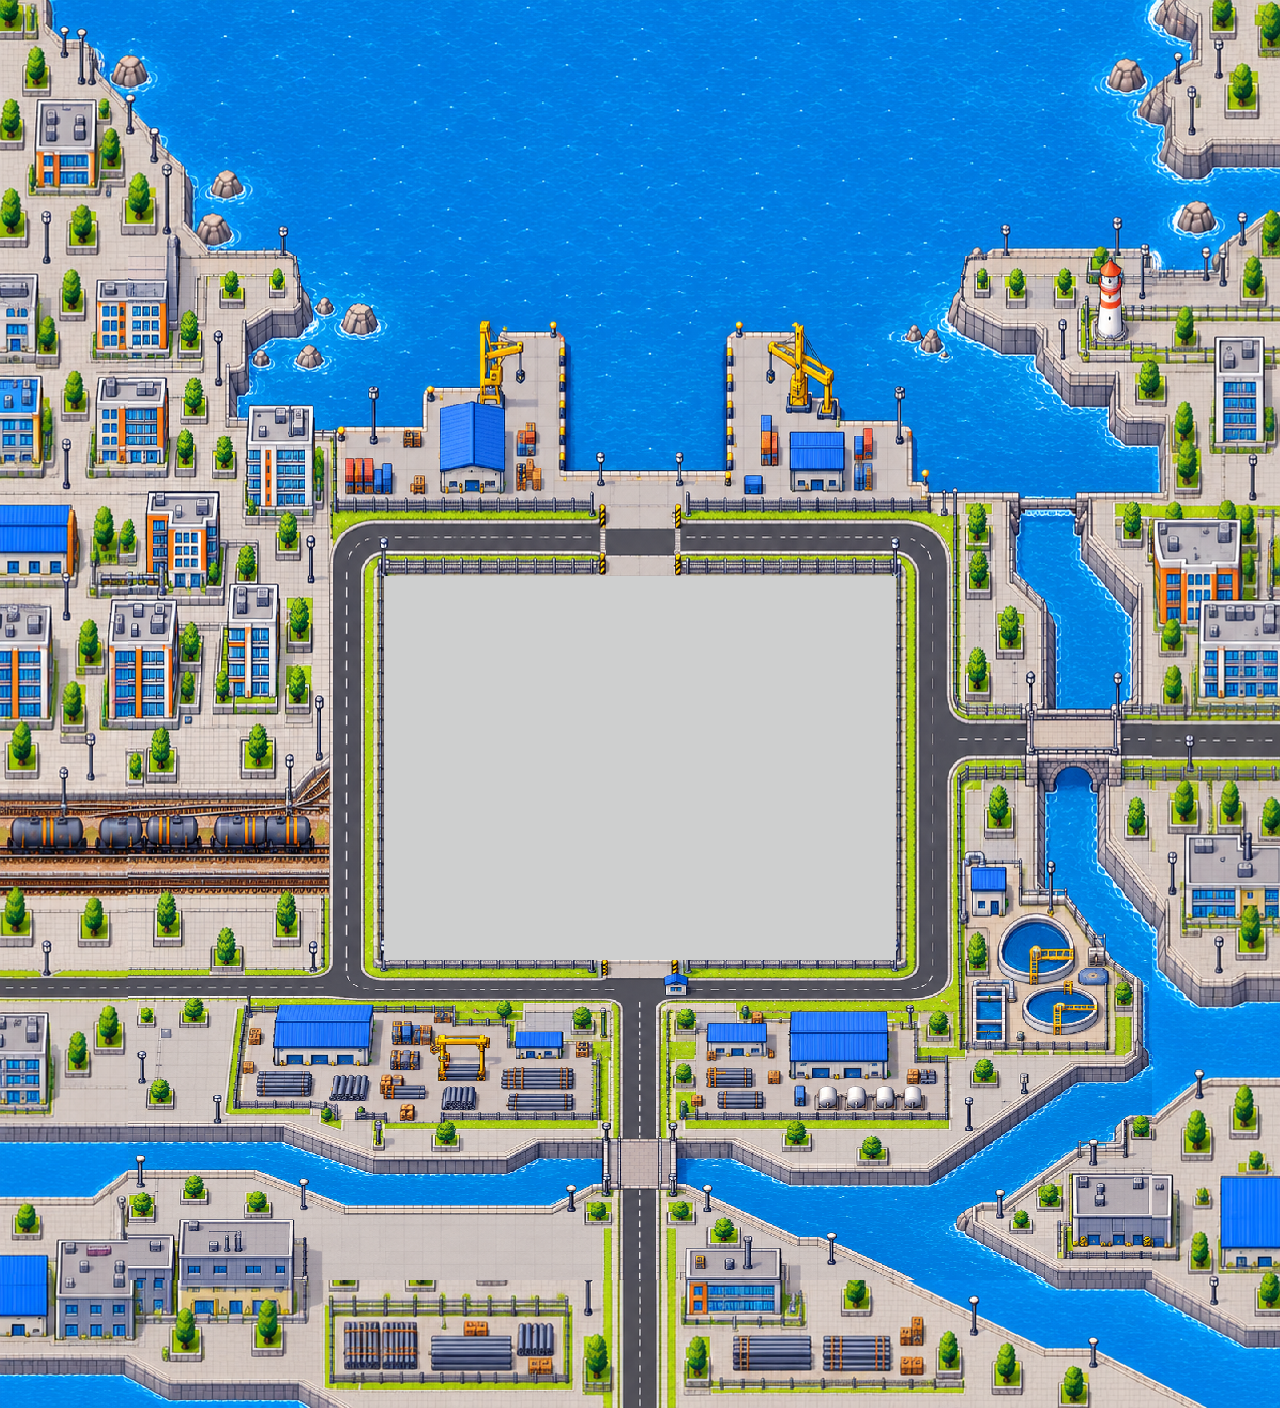
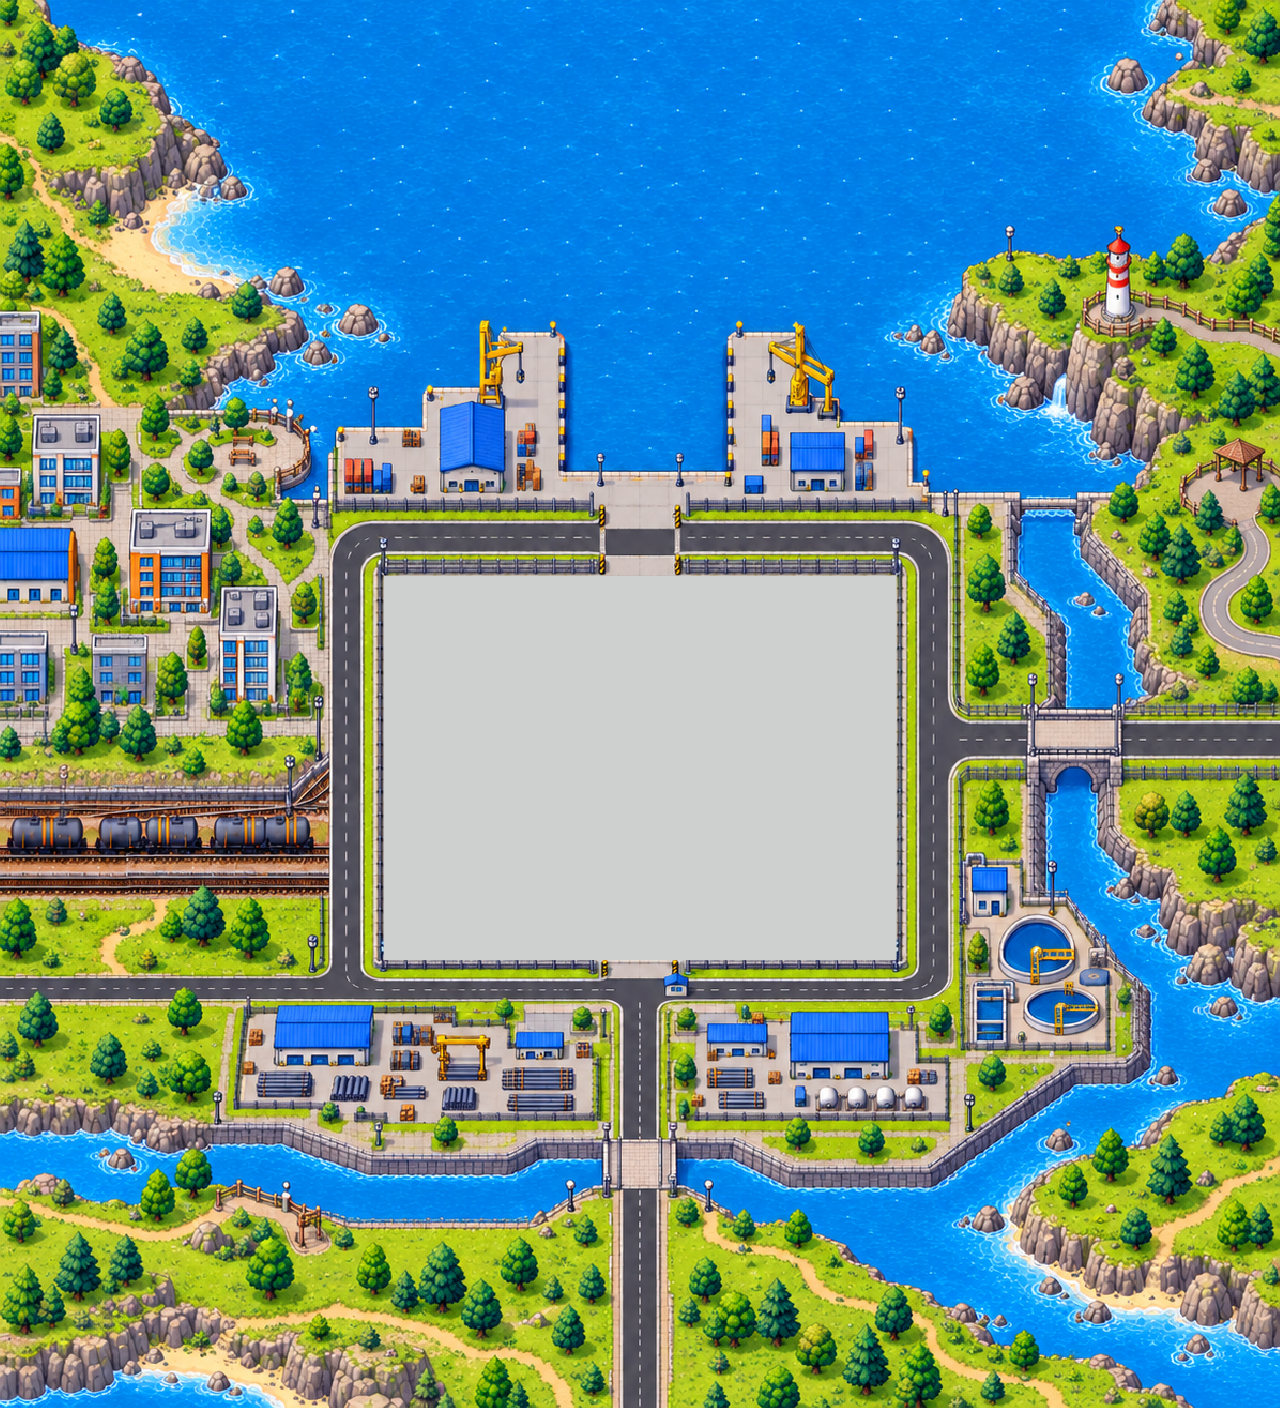
World map v2: greener coast, same 32 x 24 yard block (v4.1.6)
Claude-Session: https://claude.ai/code/session_01JqJ9XgrDhfxyaMeR1n3pbV

diff --git a/src/v4/render/tdMap.ts b/src/v4/render/tdMap.ts
@@ -10,165 +10,165 @@ export const tdMap = {
   k: 2,
   /** Open-water tiles for sea glints. */
   water: [
-    [-24, 43],
-    [-24, 44],
-    [-19, 50],
-    [-18, 36],
-    [-17, -34],
-    [-14, -33],
-    [-14, -29],
-    [-13, -28],
-    [-10, -34],
-    [-10, -32],
-    [-9, -35],
-    [-8, -30],
-    [-8, 36],
-    [-7, -34],
-    [-7, -29],
-    [-6, -23],
-    [-6, 28],
-    [-5, -35],
-    [-5, -28],
-    [-5, -22],
-    [-5, 28],
+    [-23, -1],
+    [-23, 36],
+    [-19, 36],
+    [-18, 37],
+    [-15, -34],
+    [-11, -33],
+    [-8, -35],
+    [-8, -34],
+    [-8, -24],
+    [-7, 36],
+    [-6, -32],
+    [-5, -34],
+    [-5, -23],
+    [-5, -12],
+    [-4, -35],
     [-4, -28],
-    [-4, -24],
-    [-3, -22],
+    [-4, -25],
     [-3, -12],
-    [-2, -34],
-    [-2, -33],
-    [-2, -32],
-    [-2, -27],
-    [-2, 28],
-    [-1, -34],
-    [-1, -29],
-    [-1, -27],
-    [-1, -14],
-    [-1, 38],
-    [0, -20],
-    [0, -16],
-    [0, -13],
-    [1, -21],
-    [1, -14],
-    [2, -23],
-    [2, -22],
+    [-2, -29],
+    [-2, -14],
+    [-1, -20],
+    [0, -34],
+    [0, -30],
+    [0, -27],
+    [1, -34],
+    [1, -33],
+    [1, -13],
+    [2, -32],
+    [2, -26],
+    [3, -28],
     [3, -26],
-    [4, -31],
-    [4, -29],
-    [4, -15],
+    [3, -24],
+    [3, 38],
+    [4, -22],
     [4, -13],
-    [5, -24],
-    [6, -32],
-    [6, -26],
+    [5, -29],
     [6, -23],
-    [7, -31],
-    [8, -34],
-    [8, -23],
-    [8, -22],
+    [7, -20],
     [8, -21],
-    [9, -19],
-    [9, -18],
-    [10, -35],
-    [11, -31],
-    [11, -27],
-    [12, -17],
-    [12, -14],
-    [13, -35],
-    [13, -25],
-    [13, -13],
-    [14, -22],
-    [14, -15],
-    [14, -10],
-    [14, -8],
-    [15, -34],
-    [15, -26],
-    [15, -15],
-    [16, -35],
-    [16, -26],
+    [9, -31],
+    [10, -34],
+    [10, -32],
+    [10, -24],
+    [10, -22],
+    [11, -35],
+    [11, -29],
+    [11, -28],
+    [12, -31],
+    [12, -28],
+    [12, -22],
+    [12, -12],
+    [13, -16],
+    [14, -35],
+    [15, -21],
+    [15, -18],
+    [16, -31],
+    [16, -29],
+    [16, -24],
     [16, -23],
-    [16, -16],
+    [16, -19],
+    [16, -14],
+    [16, -12],
+    [16, -9],
+    [16, -8],
+    [17, -35],
     [17, -34],
     [17, -27],
-    [17, -25],
-    [17, -21],
-    [17, -20],
-    [17, -15],
+    [17, -22],
+    [17, -17],
     [18, -27],
-    [18, -13],
-    [19, -24],
-    [19, -18],
-    [20, -25],
-    [20, -22],
-    [20, -19],
-    [20, -14],
-    [20, -13],
-    [21, -32],
-    [22, -27],
-    [22, -19],
-    [23, -21],
-    [24, 38],
-    [25, -19],
-    [26, -36],
-    [26, -34],
-    [26, -33],
+    [18, -15],
+    [18, -14],
+    [18, -12],
+    [18, -11],
+    [19, -34],
+    [20, -9],
+    [21, -34],
+    [21, -26],
+    [22, 38],
+    [23, -22],
+    [23, 28],
+    [24, -26],
+    [24, -24],
+    [24, -23],
+    [24, -21],
+    [24, -20],
+    [24, -18],
+    [25, -32],
     [26, -19],
-    [26, -17],
-    [27, -25],
-    [27, -22],
-    [28, -33],
-    [29, -30],
+    [26, 28],
+    [27, -36],
+    [28, -34],
+    [28, -23],
+    [28, -19],
+    [28, -15],
+    [28, -13],
+    [28, 40],
+    [29, -33],
+    [29, -25],
+    [29, -22],
+    [29, -16],
+    [29, -15],
+    [30, -27],
+    [30, -23],
+    [30, -21],
     [30, -14],
-    [31, 41],
+    [31, -33],
+    [31, -29],
+    [31, -19],
+    [31, -17],
+    [31, 42],
+    [32, -31],
+    [32, -26],
+    [32, -19],
     [32, -13],
-    [33, -35],
-    [34, -32],
-    [34, -25],
-    [35, -35],
-    [35, -34],
-    [35, -31],
-    [35, -21],
-    [35, -12],
+    [33, -26],
+    [33, -25],
+    [33, -12],
+    [34, -35],
+    [34, -29],
+    [34, 39],
+    [35, -22],
+    [35, -13],
     [36, -35],
-    [36, -26],
-    [36, -24],
-    [36, -13],
+    [36, -27],
+    [36, -25],
+    [36, -7],
     [37, -35],
-    [37, -32],
-    [37, -31],
-    [38, 37],
-    [39, -35],
-    [39, -29],
-    [39, -13],
-    [39, -11],
-    [39, -9],
-    [40, -33],
-    [40, -28],
-    [40, -6],
-    [41, -35],
-    [41, -34],
-    [41, -3],
-    [42, -34],
-    [42, -10],
-    [42, 16],
-    [43, -35],
-    [43, -27],
-    [43, 15],
-    [43, 34],
-    [44, -27],
-    [44, -25],
-    [44, 6],
-    [44, 46],
-    [45, -8],
-    [46, 32],
-    [47, -24],
-    [47, -23],
-    [47, 45],
-    [48, 31],
-    [50, 48],
+    [37, -34],
+    [37, -30],
+    [37, -27],
+    [37, 37],
+    [38, -35],
+    [38, -32],
+    [38, -24],
+    [38, -23],
+    [39, -32],
+    [40, -35],
+    [40, -31],
+    [41, -32],
+    [41, -27],
+    [42, -35],
+    [42, -31],
+    [42, 14],
+    [43, -34],
+    [43, -33],
+    [43, -25],
+    [43, -22],
+    [43, -7],
+    [44, -35],
+    [44, -34],
+    [45, 4],
+    [46, 21],
+    [51, 30],
+    [51, 50],
     [52, 30],
-    [54, -25],
     [54, 27],
+    [54, 30],
+    [54, 51],
     [55, 29],
-    [55, 49],
   ] as [number, number][],
 }

diff --git a/docs/v4/ART-TOPDOWN.md b/docs/v4/ART-TOPDOWN.md
@@ -31,7 +31,7 @@ canteen 2×1, flare 1×1, tower 3×3, every decoration 1×1.
 
 ## 3. World map — one picture
 
-The whole world is **one image** (`art-src/gpt/topdown/map_v1.png`, 2560 × 2816, drawn
+The whole world is **one image** (`art-src/gpt/topdown/map_v2.png`, 2560 × 2816, drawn
 at 2 image px per art pixel). `scripts/art/td_map.py` finds the flat grey yard block,
 writes `assets/v4/td/map.png` (half size, drawn back at 2×) and `src/v4/render/tdMap.ts`
 (where the yard's tile 0,0 sits, plus open-water tiles for sea glints).
